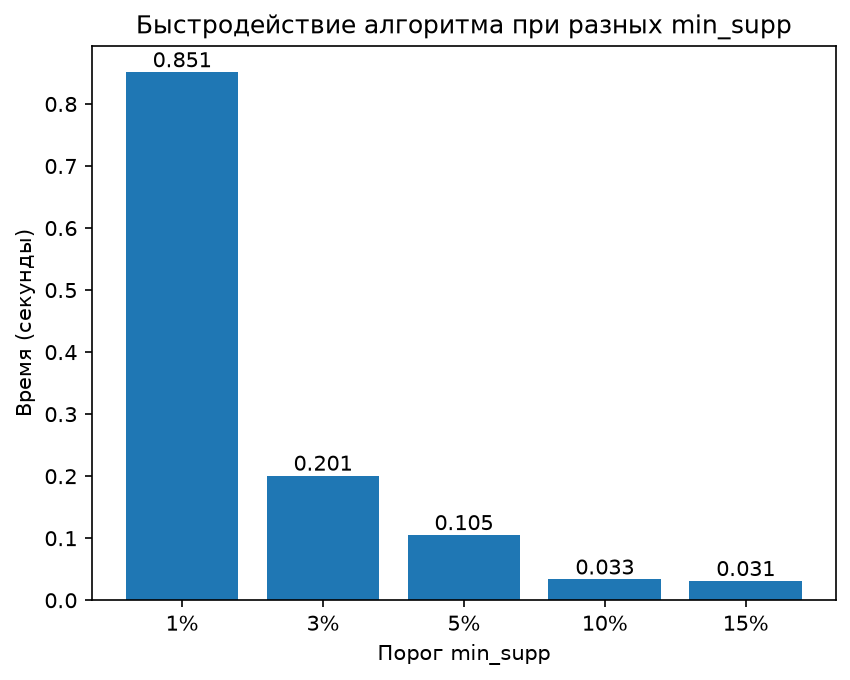
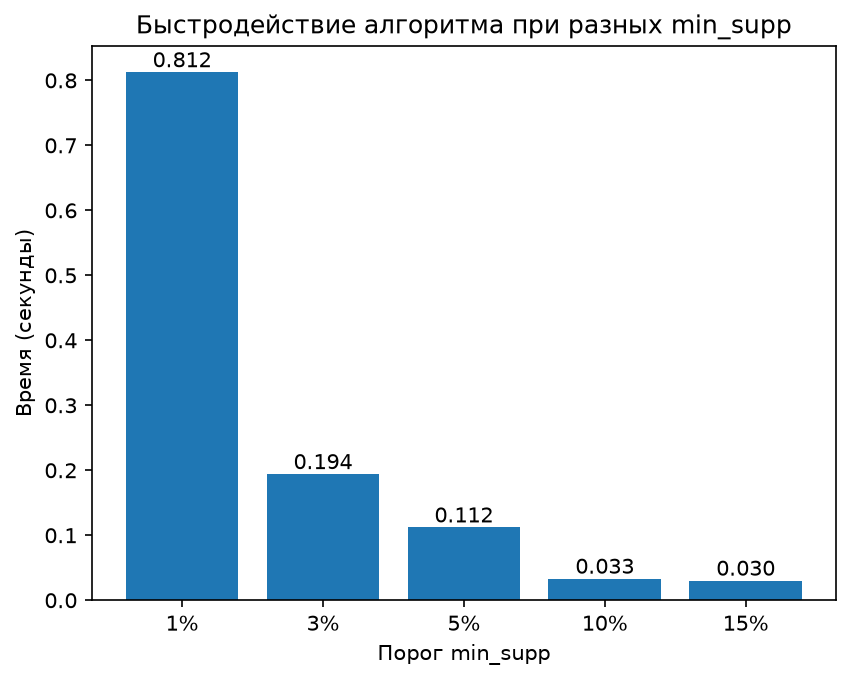
dsada

diff --git a/lab1/apriori.py b/lab1/apriori.py
@@ -72,6 +72,7 @@ class Apriori:
 
         while frequent:
             self.all_frequent_items.update(frequent)
+            # получаем кандидатов длиной k+1
             candidates = self.get_new_itemsets(list(frequent.keys()))
             candidates_dict = {}
             for cand in candidates:
@@ -90,7 +91,7 @@ class Apriori:
             raise ValueError("order должен быть 'support' или 'lex'")
         return items
 
-    def print_result(self, min_supp, order, out_path=None):
+    def print_result(self, min_supp, order):
         self.algorithm(min_supp)
         result = self.sort_result(order)
 
@@ -100,9 +101,7 @@ class Apriori:
             lines.append(f"{supp:.4f}  {{{', '.join(items)}}}")
 
         print("\n".join(lines))
-        if out_path:
-            with open(out_path, "w", encoding="utf-8") as f:
-                f.write("\n".join(lines))
+
 
     def visual(self, min_supps):
         times = []
@@ -120,7 +119,7 @@ class Apriori:
 
         x_labels = [f"{s * 100:g}%" for s in min_supps]
 
-        # диаграмма 1: быстродействие
+        # диаграмма: быстродействие
         plt.figure()
         bars = plt.bar(x_labels, times)
         plt.bar_label(bars, fmt="%.3f")
@@ -129,7 +128,7 @@ class Apriori:
         plt.ylabel("Время (секунды)")
         plt.savefig("time.png", dpi=150, bbox_inches="tight")
 
-        # диаграмма 2: количество наборов разной длины
+        # диаграмма: количество наборов разной длины
         plt.figure()
         all_lens = sorted(set(l for f in counts for l in f))
         x = np.arange(len(x_labels))
@@ -152,10 +151,10 @@ class Apriori:
 
 if __name__ == "__main__":
     PATH = "baskets.csv"
-    MIN_SUPP = 0.03
+    MIN_SUPP = 0.15
     ORDER = "support"
 
     a = Apriori(PATH)
-    a.print_result(MIN_SUPP, ORDER, out_path="result.txt")
+    a.print_result(MIN_SUPP, ORDER)
 
     a.visual([0.01, 0.03, 0.05, 0.1, 0.15])
